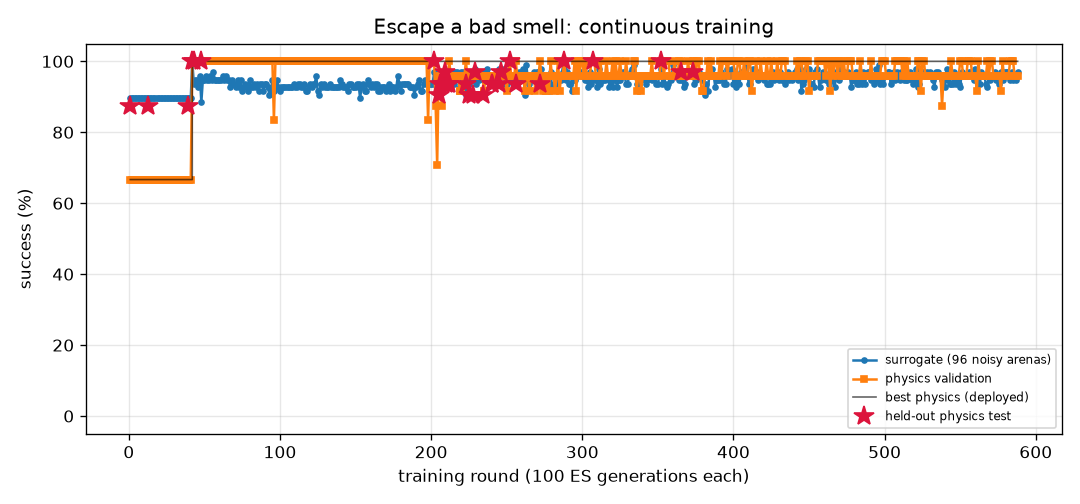
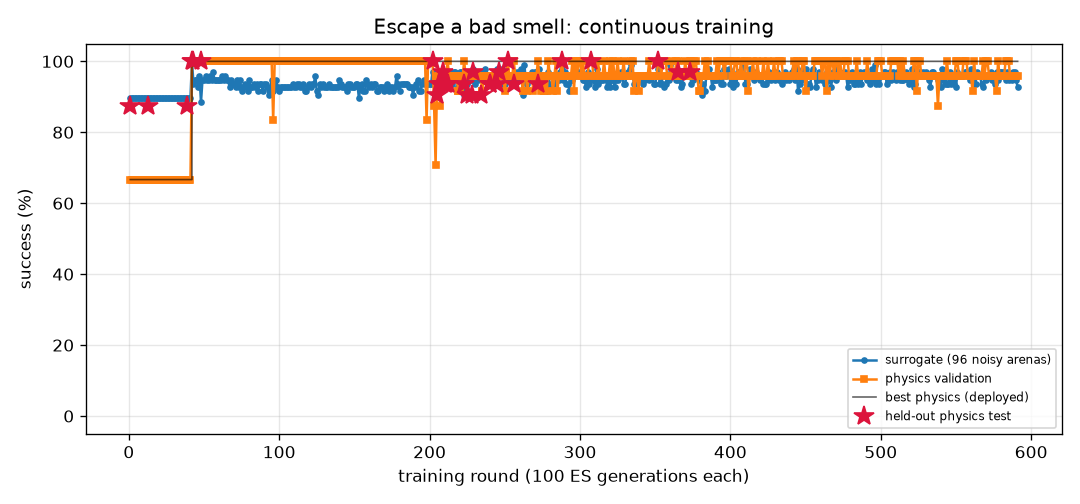
FlyLab: continuous training progress
- walk_forward: optimal, physics val 100% of 24, round 163
- turn: optimal, physics val 100% of 24, round 615
- goto: optimal, physics val 100% of 24, round 147
- odor_seek: optimal, physics val 100% of 24, round 133
- odor_avoid: optimal, physics val 100% of 24, round 591
- light_seek: optimal, physics val 100% of 24, round 331
- light_avoid: optimal, physics val 100% of 24, round 324

diff --git a/projects/09_flylab/training/light_avoid/REPORT.md b/projects/09_flylab/training/light_avoid/REPORT.md
@@ -1,14 +1,14 @@
 # Hide from light (`light_avoid`) — training report
 
-*Auto-generated by `train_brains.py`, last updated 2026-10-23T21:12:12.*
+*Auto-generated by `train_brains.py`, last updated 2026-10-23T21:57:43.*
 
 ![curve](curve.png)
 
 | | |
 |---|---|
-| rounds | 320 |
-| ES generations | 32000 |
-| physics runs | 7952 |
+| rounds | 324 |
+| ES generations | 32400 |
+| physics runs | 8048 |
 | status | **optimal** |
 | best brain | round 159: physics validation **100%** on 24 arenas, surrogate 100% |
 | held-out physics test | **100%** on 32 unseen arenas (95% CI 89%-100%) (errors: [14.4, 56.1, 58.0, 57.9, 57.5, 14.0, 14.4, 56.6, 56.8, 13.3, 14.1, 56.6, 57.6, 13.1, 57.3, 55.9, 57.2, 55.0, 55.2, 53.9, 55.2, 12.4, 53.8, 53.7, 14.1, 13.7, 55.0, 57.8, 56.2, 13.1, 52.8, 56.5]) |
@@ -17,10 +17,6 @@ Physics error per arena: mm gained away from source (> 6 without first approachi
 
 | round | level | gens | sigma | surrogate | physics val | val errors | test | note |
 |---:|---:|---:|---:|---:|---:|---|---:|---|
-| 281 | 3 | 28100 | 0.024 | 100% | 100% | [54.0, 58.3, 58.0, 54.6, 59.4, 54.6, 56.1, 14.5, 55.1, 13.1, 58.1, 59.2, 14.3, 56.5, 58.3, 53.9, 14.2, 59.6, 58.7, 14.4, 57.0, 58.0, 55.8, 59.0] |  |  |
-| 282 | 3 | 28200 | 0.024 | 100% | 100% | [53.0, 56.7, 56.3, 54.4, 58.2, 53.6, 54.7, 14.5, 47.9, 13.5, 57.1, 58.1, 14.4, 56.7, 56.6, 52.9, 14.2, 58.3, 57.3, 14.4, 55.9, 56.8, 54.8, 57.8] |  |  |
-| 283 | 3 | 28300 | 0.024 | 99% | 100% | [58.0, 61.4, 61.1, 57.6, 60.8, 57.9, 59.9, 14.5, 38.1, 13.3, 59.4, 60.6, 14.4, 58.1, 61.2, 57.7, 14.2, 61.3, 61.6, 14.4, 55.4, 59.7, 59.7, 60.0] |  | restart from best |
-| 284 | 3 | 28400 | 0.024 | 100% | 100% | [51.8, 52.8, 52.1, 51.5, 54.2, 51.4, 50.7, 14.5, 45.8, 13.5, 51.7, 54.0, 14.3, 52.4, 52.6, 53.1, 14.2, 54.4, 52.3, 14.4, 51.4, 51.6, 50.8, 53.7] |  |  |
 | 285 | 3 | 28500 | 0.024 | 100% | 100% | [43.3, 46.2, 45.8, 44.3, 47.9, 43.6, 43.6, 14.5, 46.3, 13.3, 48.3, 48.4, 14.4, 47.4, 45.7, 45.1, 14.2, 47.9, 45.8, 14.4, 43.4, 48.0, 43.5, 47.9] |  |  |
 | 286 | 3 | 28600 | 0.024 | 100% | 100% | [50.2, 54.7, 54.2, 51.5, 55.5, 51.7, 52.6, 14.5, 52.1, 13.2, 55.4, 55.8, 14.4, 54.1, 54.3, 54.8, 14.2, 56.0, 55.0, 14.4, 53.0, 55.2, 52.8, 55.6] |  |  |
 | 287 | 3 | 28700 | 0.024 | 100% | 100% | [57.4, 61.9, 61.7, 58.0, 61.3, 58.7, 60.5, 14.5, 57.2, 13.0, 59.6, 61.1, 14.4, 60.4, 61.8, 57.9, 14.2, 61.9, 62.2, 14.4, 56.5, 59.3, 60.3, 60.5] |  | restart from best |
@@ -57,3 +53,7 @@ Physics error per arena: mm gained away from source (> 6 without first approachi
 | 318 | 3 | 31800 | 0.024 | 100% | 100% | [53.1, 55.9, 56.0, 53.3, 51.9, 53.5, 55.4, 14.5, 49.6, 13.4, 54.6, 52.2, 14.4, 52.0, 55.7, 53.5, 14.2, 53.3, 55.3, 14.4, 52.5, 54.5, 55.4, 50.7] |  |  |
 | 319 | 3 | 31900 | 0.024 | 100% | 100% | [40.6, 41.5, 41.1, 40.2, 36.4, 39.0, 42.4, 14.5, 39.0, 13.3, 38.8, 36.9, 14.4, 41.9, 40.8, 39.9, 14.2, 37.9, 41.1, 14.4, 40.0, 41.9, 41.9, 35.3] |  | restart from best |
 | 320 | 3 | 32000 | 0.024 | 100% | 100% | [56.1, 61.0, 60.8, 57.6, 60.3, 57.9, 59.6, 14.5, 56.8, 13.2, 60.0, 60.2, 14.3, 57.5, 61.0, 55.6, 14.2, 60.9, 61.3, 14.4, 56.5, 60.0, 59.5, 59.5] |  |  |
+| 321 | 3 | 32100 | 0.024 | 100% | 100% | [54.5, 59.6, 59.4, 55.7, 60.1, 55.9, 58.1, 14.5, 56.2, 11.4, 59.0, 60.0, 14.4, 57.6, 59.6, 54.6, 14.2, 60.5, 59.9, 14.4, 52.7, 58.9, 57.8, 59.5] |  |  |
+| 322 | 3 | 32200 | 0.024 | 100% | 100% | [42.6, 44.3, 43.9, 44.0, 47.3, 45.0, 41.1, 14.5, 44.1, 13.1, 45.8, 47.6, 14.3, 45.9, 43.5, 44.0, 14.2, 47.5, 44.2, 14.4, 43.2, 46.0, 42.1, 47.4] |  |  |
+| 323 | 3 | 32300 | 0.024 | 100% | 100% | [50.9, 53.9, 53.5, 52.3, 56.0, 51.5, 51.5, 14.5, 51.7, 12.9, 55.3, 55.9, 14.4, 55.5, 53.9, 51.0, 14.2, 56.2, 53.5, 14.4, 50.7, 55.8, 50.9, 55.9] |  | restart from best |
+| 324 | 3 | 32400 | 0.024 | 100% | 100% | [45.6, 45.8, 45.3, 46.7, 48.6, 46.4, 43.6, 14.5, 46.7, 13.3, 49.0, 48.9, 14.4, 48.0, 45.7, 48.0, 14.2, 48.6, 46.1, 14.4, 45.4, 49.0, 44.5, 48.7] |  |  |

diff --git a/projects/09_flylab/training/odor_avoid/REPORT.md b/projects/09_flylab/training/odor_avoid/REPORT.md
@@ -1,14 +1,14 @@
 # Escape a bad smell (`odor_avoid`) — training report
 
-*Auto-generated by `train_brains.py`, last updated 2026-10-23T21:16:41.*
+*Auto-generated by `train_brains.py`, last updated 2026-10-23T21:54:53.*
 
 ![curve](curve.png)
 
 | | |
 |---|---|
-| rounds | 588 |
-| ES generations | 58800 |
-| physics runs | 11418 |
+| rounds | 591 |
+| ES generations | 59100 |
+| physics runs | 11490 |
 | status | **optimal** |
 | best brain | round 373: physics validation **100%** on 24 arenas, surrogate 97% |
 | held-out physics test | **97%** on 32 unseen arenas (95% CI 84%-99%) (errors: [62.0, 57.4, 62.6, 61.9, 59.0, 61.6, 56.5, 60.7, 31.7, 60.9, 63.1, 57.1, 61.1, 62.1, 61.5, 60.2, 62.2, 55.2, 62.1, 54.2, 61.3, 62.0, 58.0, 61.9, 59.8, 56.5, 56.3, 56.4, 56.3, 57.7, 61.9, 32.4]) |
@@ -17,9 +17,6 @@ Physics error per arena: mm gained away from source (> 6 without first approachi
 
 | round | level | gens | sigma | surrogate | physics val | val errors | test | note |
 |---:|---:|---:|---:|---:|---:|---|---:|---|
-| 549 | 3 | 54900 | 0.027 | 94% | 96% | [60.5, 54.9, 56.2, 58.8, 59.7, 59.0, 60.6, 56.3, 60.6, 58.8, 34.8, 60.8, 49.2, 56.0, 9.6, 57.0, 61.0, 58.5, 53.3, 54.4, 60.9, 59.2, 58.9, 58.3] |  | restart from best |
-| 550 | 3 | 55000 | 0.026 | 93% | 100% | [62.3, 56.9, 55.7, 60.9, 60.7, 59.7, 60.3, 62.1, 61.2, 60.0, 57.1, 61.4, 47.2, 54.4, 39.7, 59.3, 61.3, 50.3, 50.4, 57.5, 61.2, 61.8, 60.8, 62.2] |  |  |
-| 551 | 3 | 55100 | 0.028 | 97% | 100% | [61.2, 55.9, 56.1, 59.9, 61.0, 61.1, 60.8, 55.1, 60.6, 55.2, 60.8, 61.1, 54.4, 56.2, 45.0, 59.3, 61.1, 60.7, 53.9, 56.2, 61.2, 58.5, 59.1, 51.9] |  |  |
 | 552 | 3 | 55200 | 0.026 | 96% | 96% | [60.4, 59.7, 55.5, 60.1, 59.4, 59.6, 58.9, 60.8, 60.5, 58.9, 49.4, 60.3, 51.8, 52.3, 35.1, 57.8, 60.2, 47.5, 50.9, 58.2, 60.9, 60.3, 59.7, 61.1] |  |  |
 | 553 | 3 | 55300 | 0.026 | 96% | 96% | [62.0, 60.6, 56.1, 60.3, 61.2, 61.6, 60.2, 62.0, 61.1, 61.7, 60.2, 60.8, 52.6, 51.1, 39.0, 60.5, 61.3, 60.6, 52.4, 60.3, 61.2, 62.2, 60.2, 62.1] |  | restart from best |
 | 554 | 3 | 55400 | 0.026 | 96% | 96% | [62.7, 59.7, 55.5, 60.0, 61.6, 59.3, 61.3, 30.5, 61.1, 24.5, 58.0, 61.4, 51.6, 54.9, 42.7, 58.7, 61.6, 46.1, 51.4, 60.2, 61.5, 33.7, 59.1, 27.5] |  |  |
@@ -57,3 +54,6 @@ Physics error per arena: mm gained away from source (> 6 without first approachi
 | 586 | 3 | 58600 | 0.026 | 96% | 96% | [63.1, 59.2, 55.9, 59.8, 60.8, 61.5, 60.7, 31.4, 60.9, 44.5, 61.5, 61.4, 54.8, 56.5, 36.0, 60.6, 62.0, 56.2, 55.6, 57.2, 61.9, 50.1, 59.0, 48.3] |  |  |
 | 587 | 3 | 58700 | 0.026 | 95% | 96% | [62.4, 60.8, 56.0, 61.0, 60.6, 61.6, 62.0, 43.3, 62.4, 60.2, 60.8, 61.8, 51.7, 54.4, 25.9, 61.5, 62.3, 62.2, 55.0, 60.1, 61.7, 61.6, 57.6, 60.4] |  |  |
 | 588 | 3 | 58800 | 0.027 | 97% | 96% | [60.0, 56.1, 55.6, 59.4, 61.2, 61.1, 60.9, 43.2, 61.0, 46.4, 60.8, 61.1, 53.8, 56.1, 30.4, 60.5, 61.2, 59.5, 54.5, 56.1, 60.7, 61.3, 60.2, 59.3] |  |  |
+| 589 | 3 | 58900 | 0.026 | 97% | 96% | [60.9, 56.1, 57.5, 60.0, 60.7, 61.6, 61.7, 50.4, 61.1, 60.0, 59.9, 61.1, 51.6, 55.5, 43.5, 61.6, 61.3, 61.7, 54.3, 59.7, 61.0, 59.7, 60.4, 58.3] |  | restart from best |
+| 590 | 3 | 59000 | 0.026 | 95% | 96% | [62.9, 59.8, 57.1, 57.4, 62.0, 61.4, 61.9, 56.8, 60.3, 61.8, 62.0, 61.3, 54.6, 57.9, 42.7, 61.6, 61.3, 61.9, 54.8, 55.5, 61.5, 60.5, 57.5, 58.4] |  |  |
+| 591 | 3 | 59100 | 0.027 | 93% | 96% | [62.4, 61.2, 56.2, 61.3, 61.9, 62.7, 61.8, 62.6, 62.1, 62.9, 39.9, 61.5, 44.1, 53.4, 41.3, 61.8, 61.9, 61.3, 53.4, 60.7, 61.6, 62.8, 61.3, 63.0] |  |  |

diff --git a/projects/09_flylab/training/TRAINING.md b/projects/09_flylab/training/TRAINING.md
@@ -1,6 +1,6 @@
 # FlyLab brains — continuous training log
 
-*Auto-generated by `train_brains.py`, last updated 2026-10-23T21:16:41.*
+*Auto-generated by `train_brains.py`, last updated 2026-10-23T21:57:43.*
 
 Every skill has its own brain and its own training process: surrogate ES rounds, physics validation in MuJoCo, keep-the-best selection, and a held-out physics test that is never used for selection. See each skill's report for its full round-by-round history. Mastery is progressive: passing a level (100% physics validation, >=95% surrogate) doubles the validation and test arena sets; a brain is **optimal** once it holds up at level 3 (>=95% of 24 validation arenas) AND scores >=90% on the 32 held-out test arenas. Test columns show 95% Wilson confidence intervals.
 
@@ -10,6 +10,6 @@ Every skill has its own brain and its own training process: surrogate ES rounds,
 | [Turn in place](turn/REPORT.md) | 615 | 61500 | 15006 | 100% | 100% of 24 | 97% of 32 (CI 84-99%) | **optimal** |
 | [Go to a location](goto/REPORT.md) | 147 | 14700 | 3414 | 100% | 100% of 24 | 100% of 32 (CI 89-100%) | **optimal** |
 | [Find food by smell](odor_seek/REPORT.md) | 133 | 13300 | 2558 | 100% | 100% of 24 | 100% of 32 (CI 89-100%) | **optimal** |
-| [Escape a bad smell](odor_avoid/REPORT.md) | 588 | 58800 | 11418 | 97% | 100% of 24 | 97% of 32 (CI 84-99%) | **optimal** |
+| [Escape a bad smell](odor_avoid/REPORT.md) | 591 | 59100 | 11490 | 97% | 100% of 24 | 97% of 32 (CI 84-99%) | **optimal** |
 | [Walk toward light](light_seek/REPORT.md) | 331 | 33100 | 4792 | 100% | 100% of 24 | 100% of 32 (CI 89-100%) | **optimal** |
-| [Hide from light](light_avoid/REPORT.md) | 320 | 32000 | 7952 | 100% | 100% of 24 | 100% of 32 (CI 89-100%) | **optimal** |
+| [Hide from light](light_avoid/REPORT.md) | 324 | 32400 | 8048 | 100% | 100% of 24 | 100% of 32 (CI 89-100%) | **optimal** |
